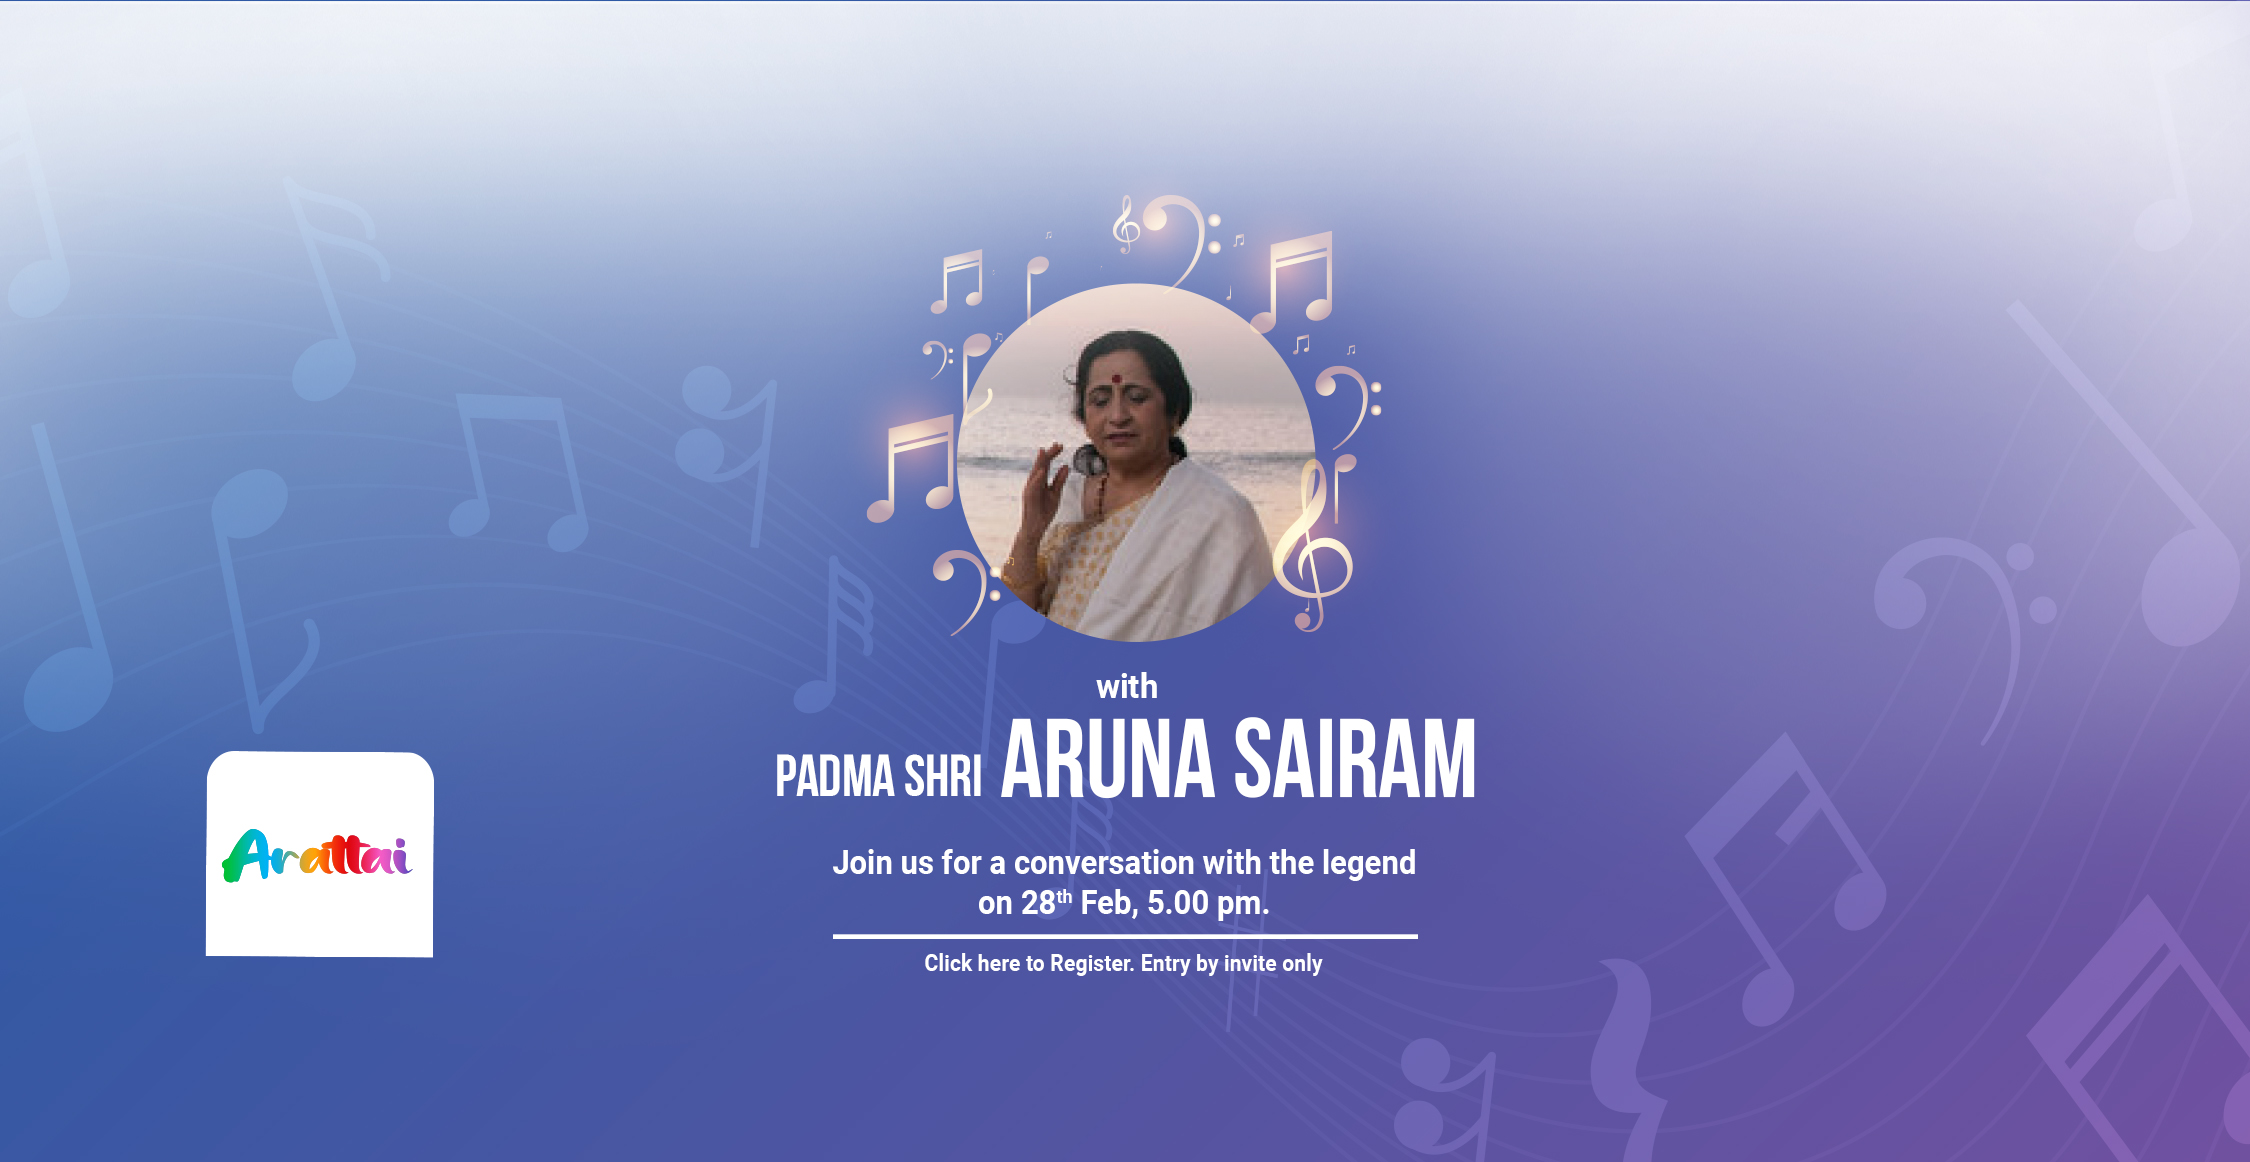
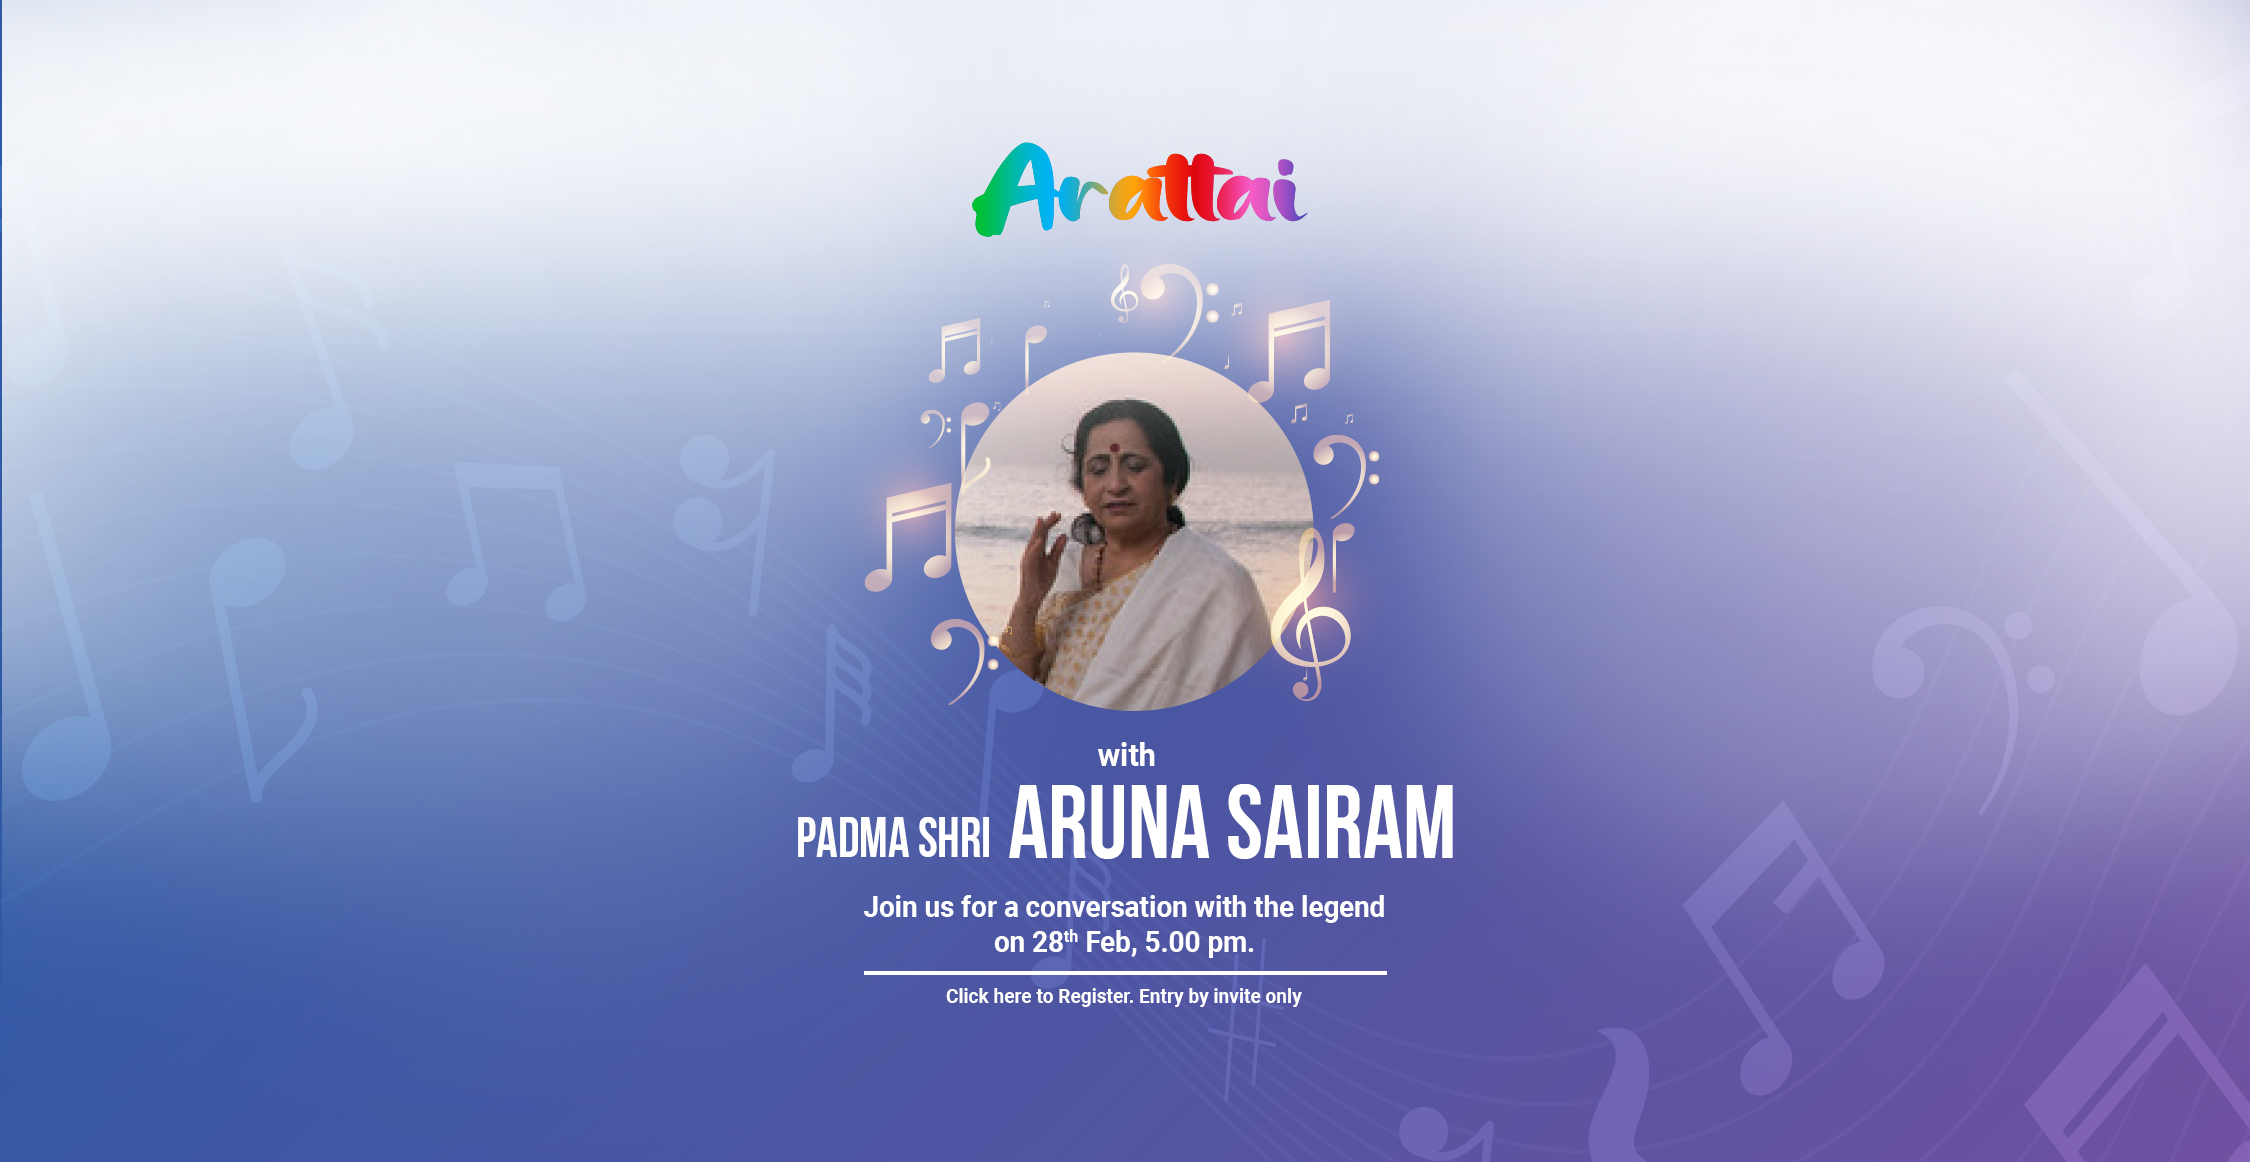
add changes

diff --git a/src/Pages/Activities/ArattaiWith/arattaiPage.jsx b/src/Pages/Activities/ArattaiWith/arattaiPage.jsx
@@ -105,30 +105,32 @@ export default function ArrattaiWithArangam() {
     <>
       <ToastContainer position="top-center" style={{ zIndex: 100000 }} />
       <Helmet>
-        <title>Hey Chennaiites! It’s your time to talk about Chennai!</title>
+        <title>
+          Chennai’s Iconic Carnatic Vocalists - Arattai with Aruna Sairam
+        </title>
         <meta
           name="description"
-          content="Be part of the Super Chennai Conclave, a citizen-driven space to discuss Chennai’s identity, innovation, culture, and future development.."
+          content=" Join Arattai with Aruna Sairam to celebrate Chennai’s Carnatic vocalists, their legacy, and the city’s enduring contribution to classical music culture."
         />
         <meta
           property="og:title"
-          content="Hey Chennaiites! It’s your time to talk about Chennai!"
+          content=" Join Arattai with Aruna Sairam to celebrate Chennai’s Carnatic vocalists, their legacy, and the city’s enduring contribution to classical music culture."
         />
         <meta
           property="og:description"
-          content="Be part of the Super Chennai Conclave, a citizen-driven space to discuss Chennai’s identity, innovation, culture, and future development.."
+          content=" Join Arattai with Aruna Sairam to celebrate Chennai’s Carnatic vocalists, their legacy, and the city’s enduring contribution to classical music culture."
         />
         <meta
           property="og:image"
-          content="https://www.superchennai.com/images/Picture1.png"
+          content="https://www.superchennai.com/images/aruna-innerpage.jpeg"
         />
         <meta
           property="og:url"
-          content="https://www.superchennai.com/images/Picture1.png"
+          content="https://www.superchennai.com/images/aruna-innerpage.jpeg"
         />
         <link
           rel="canonical"
-          href={`${typeof window !== "undefined" ? window.location.origin : ""}/chennai-conclave`}
+          href={`${typeof window !== "undefined" ? window.location.origin : ""}/arattai-with-aruna-sairam/carnatic-vocalist`}
         />
       </Helmet>
       {/* ============== Banner ============ */}
@@ -136,13 +138,13 @@ export default function ArrattaiWithArangam() {
         <div className="relative z-0">
           <img
             className="eventsCalenderIamge hidden sm:block w-full"
-            src="/images/aruna-innerpage.jpeg"
+            src="/images/aruna-inne-main-image.jpeg"
             alt="Super Chennai Quiz"
           />
 
           <img
             className="block sm:hidden w-full"
-            src="/images/aruna-home-mobile.jpeg"
+            src="/images/mobile-aruna-main-secon.jpg"
             alt="Super Chennai Quiz Mobile"
           />
         </div>
@@ -159,7 +161,7 @@ export default function ArrattaiWithArangam() {
               <h3 className=" text-center">Arattai with Aruna Sairam</h3>
 
               <p className="text-lg text-gray-600 leading-relaxed mb-6 ">
-                Join us for a special Arattai with one of India’s most
+                Join us for a candid conversation with one of India’s most
                 celebrated Carnatic vocalists — a voice that has transcended
                 tradition, geography and generations.
               </p>
@@ -170,16 +172,17 @@ export default function ArrattaiWithArangam() {
                 stages including the Royal Albert Hall. A recipient of honours
                 such as the Sangita Kalanidhi and the Padma Shri, she continues
                 to be a proud torchbearer of the Carnatic tradition that
-                flourishes in Chennai. In celebrating a voice that echoes the
-                soul of our city, we will honour her with the
-                {/* <span className="font-semibold text-purple-700"> */} Super
-                Chennai Icon of the Month
-                {/* </span> */}.
+                flourishes in Chennai.
+              </p>
+
+              <p className="text-gray-600 leading-relaxed mb-6 ">
+                In celebrating a voice that echoes the soul of our city, we will
+                honour her with the Super Chennai Icon of the Month
               </p>
               <p className="text-gray-600 leading-relaxed mb-10 ">
-                She will be in conversation with Akhila Krishnamurthy, Founder,
-                Aalap, for an engaging and intimate exchange on music, memory
-                and the making of a legacy.
+                She will be in conversation with Akhila Krishnamurthy,
+                Independent journalist & Arts entrepreneur, for an engaging and
+                intimate exchange on music, memory and the making of a legacy.
               </p>
             </div>
 

diff --git a/src/App.jsx b/src/App.jsx
@@ -561,7 +561,7 @@ function App() {
 
           {/* {isHomePage && showPopup && (
             <ImagePopup
-              imageUrl="/images/aruna-contest-popup.jpeg"
+              imageUrl="/images/aruna-contest-popup.jpg"
               onClose={() => setShowPopup(false)}
             />
           )} */}
@@ -827,7 +827,7 @@ function App() {
 
             <Route path="/chennai-conclave" element={<Conclave />} />
             <Route path="/devConclave" element={<DevConclave />} />
-             <Route path="/arattai-with-aruna-sairam" element={<ArrattaiWithArangam />} />
+             <Route path="/arattai-with-aruna-sairam/carnatic-vocalist" element={<ArrattaiWithArangam />} />
 
 
             

diff --git a/src/Components/HeroSlider.jsx b/src/Components/HeroSlider.jsx
@@ -40,14 +40,16 @@ const slides = [
   //   description: "conclave.",
   // },
 
+
   //  {
   //   type: "image",
-  //   link: "arattai-with-aruna-sairam",
-  //   image: "/images/aruna-with.jpeg",
-  //   image1: "/images/aruna-inner-mobile.jpeg",
-  //   title: "conclave evant",
-  //   description: "conclave.",
+  //   link: "arattai-with-aruna-sairam/carnatic-vocalist",
+  //   image: "/images/aruna-innerpage.jpg",
+  //   image1: "/images/mobile-aruna-main-insta.jpg",
+  //   title: "arattai-with-aruna-sairam",
+  //   description: "arattai-with-aruna-sairam",
   // },
+
 
   // {
   //   type: "image",

diff --git a/src/Components/ImagePopup.jsx b/src/Components/ImagePopup.jsx
@@ -37,7 +37,7 @@ const ImagePopup = ({ onClose, imageUrl }) => {
         >
           {/* <Link to="/namma-stories#NammaStoriesVideoId" onClick={onClose}> */}
           {/* <Link to="/chennai-conclave" onClick={onClose}> */}
-          <a href="arattai-with-aruna-sairam">
+          <a href="arattai-with-aruna-sairam/carnatic-vocalist">
             <img
               src={imageUrl}
               alt="Popup"
